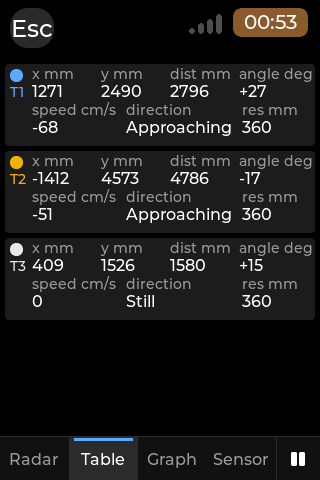
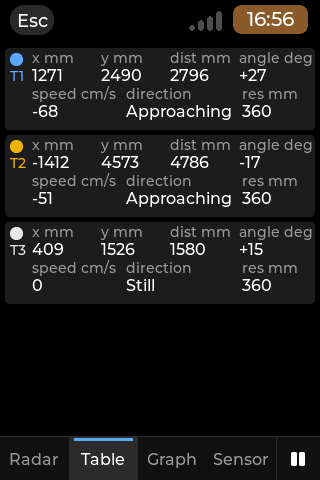
mmwave-radar 0.1.1: the 320x480 header follows the narrow portrait shell
The published 0.1.0 was built at a toolkit before the launcher's narrow
portrait shell (v0.9.4), so on 320x480 (PDA mode on 480x320 panels) the
app's own copy of the rule left the toolkit's 56 px bar, its 9 mm key
height and its radius: a round Esc. The pin is past that shell now, which
makes the Esc 44x30 in a 40 px bar with its tap area over the whole bar
(as Deck Atlas has it). 480x320 and the larger sizes are unchanged.

- radar_app.cpp: the by-hand narrow rule (Esc x/w, hidden title lambda,
  ext click area, 16/14 px text and spacing) is deleted; the Page and the
  toolkit tokens do it. A toolkit without CP0_UI_NARROW_PORTRAIT_SIZE is a
  compile error instead of a round Esc.
- headless: `expect esc` checks the header Esc against the rule at the
  scene's size (narrow portrait: TARGET wide, bar minus margins high, not a
  circle, SPACE_M from the left, 40 px bar, tap area over the bar, no title;
  otherwise the 9 mm key); used in a-radar-one (all sizes) and
  o-board-density (the real 6.1 px/mm panel at 480x320 and 320x480).
- version 0.1.1 (app.json, kVersion, package test), README, screenshots
  03, 06 and 08 (they showed the old header).

Claude-Session: https://claude.ai/code/session_01DZirtLRRFpxSjax5Qp5ZSW

Changed region(s): [[0.0, 0.0, 1.0, 0.6875]]

diff --git a/apps/_common/headless/headless_main.cpp b/apps/_common/headless/headless_main.cpp
@@ -13,6 +13,7 @@
 
 #include "app.hpp"
 #include "cp0_ui_metrics_lvgl.h"
+#include "cp0_ui_roller.h"
 #include "cp0_ui_widgets.hpp"
 #include "keyboard_input.h"
 
@@ -457,6 +458,48 @@ void play(Run &run, const Scene &scene)
                 fail(run, line, "no visible text \"" + arg(2) + "\"");
             } else if (what == "notext" && headless::find_label(arg(2), false)) {
                 fail(run, line, "text \"" + arg(2) + "\" is visible");
+            } else if (what == "esc") {
+                /* expect esc: the page header's Esc button follows the layout service's rule at this size: on a narrow
+                 * portrait canvas (320x480) TARGET wide, the bar minus its margins high (not a circle), SPACE_M from the
+                 * left edge, its tap area over the whole bar height, no page title; elsewhere the 9 mm toolbar key
+                 * (as high as the bar's margins allow). The size goes in the report. */
+                const cp0_ui_metrics_t *m = cp0_ui_metrics_get();
+                cp0_ui_roller_page_t want{};
+                lv_obj_t *label = headless::find_label("Esc", false);
+                if (cp0_ui_roller_page(m, 0, &want) != 0) {
+                    fail(run, line, "expect esc: no page layout at this size");
+                } else if (!label) {
+                    fail(run, line, "no visible text \"Esc\"");
+                } else {
+                    lv_obj_t *button = headless::clickable_of(label);
+                    lv_area_t a;
+                    lv_obj_get_coords(button, &a);
+                    const int bw = lv_obj_get_width(button), bh = lv_obj_get_height(button);
+                    const int bx = a.x1, by = a.y1;
+                    const bool narrow = cp0_ui_narrow_portrait(m) != 0;
+                    const int pad = lv_obj_get_style_radius(button, LV_PART_MAIN);
+                    run.report << "esc " << bw << "x" << bh << "@(" << bx << "," << by << ") radius " << pad
+                               << (narrow ? " narrow portrait" : "") << ", bar " << want.header_h << "\n";
+                    std::string why;
+                    if (narrow) {
+                        if (bw != m->tok[CP0_TOK_TARGET]) why = "width is not TARGET";
+                        else if (bh != want.header_h - 2 * m->shell.status_top) why = "height is not the bar minus its margins";
+                        else if (bh >= bw) why = "not wider than high (a circle)";
+                        else if (bx != m->tok[CP0_TOK_SPACE_M]) why = "not SPACE_M from the left edge";
+                        else if (want.header_h != 40) why = "bar is not 40 px";
+                        else if (want.title_hidden != 1) why = "the page title is not hidden";
+                        else {
+                            const lv_point_t top = {bx + bw / 2, 0}, bottom = {bx + bw / 2, want.header_h - 1};
+                            if (!lv_obj_hit_test(button, &top) || !lv_obj_hit_test(button, &bottom))
+                                why = "tap area does not cover the bar height";
+                        }
+                    } else {
+                        const int key = cp0_ui_toolbar_key_px(m->ppmm_x100);
+                        if (bw != key) why = "width is not the 9 mm toolbar key";
+                        else if (bh != std::min(key, want.header_h - 2 * m->shell.status_top)) why = "height is not the toolbar key capped by the bar's margins";
+                    }
+                    if (!why.empty()) fail(run, line, "Esc " + std::to_string(bw) + "x" + std::to_string(bh) + ": " + why);
+                }
             } else if (what == "key") {
                 /* expect key "TEXT" toolbar|target: the button labelled TEXT is exactly that high and at least that
                  * wide (toolbar = cp0_ui_toolbar_key_px, the 9 mm toolbar key; target = TARGET) */

diff --git a/apps/mmwave-radar/src/ui/radar_app.cpp b/apps/mmwave-radar/src/ui/radar_app.cpp
@@ -27,6 +27,12 @@
 #include <cstring>
 #include <sys/stat.h>
 
+/* The narrow portrait shell (320x480: 40 px bar, Esc 44x30 at the left edge, no title) is the toolkit's: a toolkit
+ * before the launcher's v0.9.4 would draw a round Esc and a 56 px bar, so it is not built against. */
+#ifndef CP0_UI_NARROW_PORTRAIT_SIZE
+#error "mmwave-radar needs the launcher toolkit at the pin of apps/_common/LAUNCHER_REF (v0.9.4 or later)"
+#endif
+
 namespace mmwui {
 
 namespace {
@@ -104,36 +110,9 @@ RadarApp::RadarApp(lv_obj_t *screen) : screen_(screen)
     /* the launcher's page header, as in every app */
     const cp0_ui_metrics_t *m = cp0_ui_metrics_get();
     cp0_ui_roller_page(m, cp0::ui::status_strip_left(), &page_layout_);
-    const bool narrow = sz_.narrow;
-#ifndef CP0_UI_NARROW_PORTRAIT_SIZE
-    /* a toolkit before the narrow portrait shell (launcher v0.9.4): its rule done here (Esc TARGET wide at the left
-     * edge, no title); the bar keeps the toolkit's height, the status strip is drawn for it */
-    if (narrow) {
-        page_layout_.esc_x = sz_.space_m;
-        page_layout_.esc_w = sz_.target;
-        page_layout_.title_max_w = 0;
-    }
-#endif
-    page_ = std::make_unique<cp0::ui::Page>(
-        screen_, page_layout_,
-        [narrow](lv_obj_t *parent, const char *t) -> lv_obj_t * {
-            lv_obj_t *l = cp0::ui::add_title(parent, t);
-            if (narrow && l) lv_obj_add_flag(l, LV_OBJ_FLAG_HIDDEN);
-            return l;
-        },
-        [] { cdk::request_quit(0); });
+    page_ = std::make_unique<cp0::ui::Page>(screen_, page_layout_, cp0::ui::add_title, [] { cdk::request_quit(0); });
     cp0::ui::StatusStrip::add(page_->header());
     page_->set_title({"mmWave Radar"});
-#ifndef CP0_UI_NARROW_PORTRAIT_SIZE
-    if (narrow) { /* the Esc's tap area over the whole bar height */
-        const uint32_t n = lv_obj_get_child_count(page_->header());
-        for (uint32_t i = 0; i < n; ++i) {
-            lv_obj_t *c = lv_obj_get_child(page_->header(), static_cast<int32_t>(i));
-            if (lv_obj_check_type(c, &lv_button_class))
-                lv_obj_set_ext_click_area(c, std::max(0, (page_layout_.header_h - page_layout_.esc_h) / 2));
-        }
-    }
-#endif
 
     w_ = page_layout_.w;
     h_ = page_layout_.h;
@@ -182,7 +161,7 @@ RadarApp::RadarApp(lv_obj_t *screen) : screen_(screen)
     now_ = mono_ms();
     link_->start(now_, remembered);
     log_line("%s %dx%d%s%s, listen only, remembered %s%s%s%s", kVersion, w_, h_,
-                 narrow ? " narrow portrait" : "", demo && *demo ? (std::string(" demo ") + demo).c_str() : "",
+                 sz_.narrow ? " narrow portrait" : "", demo && *demo ? (std::string(" demo ") + demo).c_str() : "",
                  remembered.empty() ? "none" : remembered.port_id.c_str(),
                  settings_.connection == mmw::Connection::Usb ? "" : ", connection ",
                  settings_.connection == mmw::Connection::Usb ? "" : mmw::connection_name(settings_.connection),
@@ -290,14 +269,6 @@ void RadarApp::compute_sizes()
     sz_.target = m->tok[CP0_TOK_TARGET];
     sz_.body_px = m->text_px[CP0_TEXT_BODY];
     sz_.caption_px = m->text_px[CP0_TEXT_CAPTION];
-#ifndef CP0_UI_NARROW_PORTRAIT_SIZE
-    if (sz_.narrow) { /* the launcher's narrow portrait numbers (v0.9.4), not in the pinned toolkit */
-        sz_.body_px = 16;
-        sz_.caption_px = 14;
-        sz_.space_s = 5;
-        sz_.space_m = 10;
-    }
-#endif
     sz_.tab_h = std::max(sz_.row, sz_.target);
     sz_.dot = std::clamp(std::min(w, h) / 26, 10, 24);
 }

diff --git a/apps/mmwave-radar/tests/test_package.cpp b/apps/mmwave-radar/tests/test_package.cpp
@@ -41,7 +41,7 @@ void test_package()
     const std::string hpp = test_read_file(app + "/src/ui/radar_app.hpp");
     CHECK(has(hpp, "kMinW = 480, kMinH = 320"));
     CHECK(has(hpp, "kPortraitW = 320, kPortraitH = 480"));
-    CHECK(has(hpp, "kVersion = \"0.1.0\""));
+    CHECK(has(hpp, "kVersion = \"0.1.1\""));
     CHECK(!test_read_file(app + "/root/usr/share/APPLaunch/share/images/mmwave-radar.png").empty());
     CHECK(test_read_file(app + "/root/usr/share/APPLaunch/share/images/mmwave-radar.png") ==
           test_read_file(app + "/icon.png"));
@@ -50,7 +50,7 @@ void test_package()
     const std::string manifest = test_read_file(app + "/app.json");
     CHECK(has(manifest, "\"share_code\": \"mmwave-radar\""));
     CHECK(has(manifest, "\"package\": \"mmwave-radar\""));
-    CHECK(has(manifest, "\"version\": \"0.1.0\""));
+    CHECK(has(manifest, "\"version\": \"0.1.1\""));
     CHECK(has(manifest, "\"title\": \"mmWave Radar\""));
     CHECK(has(manifest, "\"license\": \"MIT\""));
     CHECK(has(manifest, "\"arch\": [\"arm64\", \"amd64\"]"));

diff --git a/apps/mmwave-radar/src/ui/radar_app.hpp b/apps/mmwave-radar/src/ui/radar_app.hpp
@@ -39,12 +39,12 @@ namespace mmwui {
 
 constexpr int kMinW = 480, kMinH = 320;
 constexpr int kPortraitW = 320, kPortraitH = 480;
-constexpr const char *kVersion = "0.1.0";
+constexpr const char *kVersion = "0.1.1";
 
 enum class Tab { Radar = 0, Table, Graph, Sensor };
 
-/* The sizes of this canvas: the toolkit's tokens, or on a narrow portrait canvas (320x480) the launcher's narrow
- * portrait numbers when the pinned toolkit does not have them yet (body 16 px, caption 14 px). */
+/* The sizes of this canvas: the toolkit's tokens (on a narrow portrait canvas, 320x480, the toolkit's own narrow
+ * portrait numbers: Compact tokens, 16 px body text, 14 px caption). */
 struct Sizes {
     bool narrow = false;     /* narrow portrait: w < 480 and h > w */
     bool portrait = false;

diff --git a/apps/mmwave-radar/README.md b/apps/mmwave-radar/README.md
@@ -2,7 +2,7 @@
 
 A viewer for the Hi-Link HLK-LD2450 / HLK-LD2452 24 GHz tracking radar and the HLK-LD2451 24 GHz target radar on a
 USB-serial adapter, or for the HLK-LD2451 over Bluetooth LE (its built-in module): up to three targets seen from above, with trails and speed arrows, the raw numbers, a 30-second
-graph of distance and speed, and the sensor's state. Native fullscreen app on the launcher's `cp0_lvgl`, MIT, version 0.1.0, category Tools. **Listen only:** the app sends
+graph of distance and speed, and the sensor's state. Native fullscreen app on the launcher's `cp0_lvgl`, MIT, version 0.1.1, category Tools. **Listen only:** the app sends
 nothing to the sensor, not even to find it (study: launcher report 056); over Bluetooth the only thing sent is the
 standard notification subscription (see [Bluetooth](#bluetooth-hlk-ld2451)).
 
@@ -322,14 +322,10 @@ on every systemd system and is only opened at run time). arm64 and amd64.
 
 ## Install
 
-Settings > Apps (category Tools). By hand: `sudo dpkg -i mmwave-radar_0.1.0_arm64.deb`.
+Settings > Apps (category Tools). By hand: `sudo dpkg -i mmwave-radar_0.1.1_arm64.deb`.
 
 ## Known limits
 
-- **Narrow portrait header.** The toolkit pin (`3f6579f`) predates the launcher's narrow portrait shell (v0.9.4,
-  `7b6ee88a`): at 320x480 the app moves the Esc to the left edge, hides the title and uses the 16/14 px text itself, but
-  the bar keeps the pinned toolkit's 56 px (the launcher draws 40 px, Esc 44x30). A pin move gives the 40 px bar with no
-  app change (the app uses the toolkit's own rule when `CP0_UI_NARROW_PORTRAIT_SIZE` exists).
 - The title is cut to "mmWave ..." at 480x320 and "mmWave R..." at 640x480 by the toolkit's title width rule (as other
   apps' long titles).
 - Listen only: no sensor setting can be read or changed (the LD2452 does not answer the LD2450 queries anyway; the
@@ -374,6 +370,10 @@ Build from a WSL native-filesystem LF copy with fresh build dirs (`CDK_BUILD`, `
 
 ## Changes
 
+- 0.1.1: the 320x480 header follows the launcher's narrow portrait shell: a 40 px bar and the Esc 44x30 at the left
+  edge with its tap area over the whole bar. 0.1.0 was built at a toolkit before that shell and drew a round Esc
+  and a 56 px bar there (480x320 and the larger sizes are unchanged); the app's own copy of the rule is gone and the
+  build stops on such a toolkit.
 - 0.1.0: first version: Radar, Table, Graph and Sensor pages, listen-only detection, units, orientation,
   range and trails settings, 480x320 and 320x480 minimum layouts; the tall Radar page (plot, target list, distance
   strip), ring labels on the wedge's edge, the diagnostic log's marker file and its frame counters (empty, non-empty,

diff --git a/apps/_common/headless/README.md b/apps/_common/headless/README.md
@@ -49,6 +49,7 @@ After the app asks to quit, only `expect` lines are read.
 | `shot NAME` / `check NAME` | settle 250 ms, save the PNG (shot only), run the layout checks |
 | `expect quit\|noquit`, `expect osk on\|off`, `expect text "T"`, `expect notext "T"` | assertions |
 | `expect key "T" toolbar\|target` | the button labelled T is exactly the 9 mm toolbar key (`cp0_ui_toolbar_key_px`) / TARGET high and at least as wide; its size goes in the report |
+| `expect esc` | the header's Esc button follows the layout service's rule at this size: narrow portrait (320x480) TARGET wide, the bar (40 px) minus its margins high, SPACE_M from the left edge, tap area over the whole bar, no title; elsewhere the 9 mm toolbar key; its size goes in the report |
 | `say TEXT` | a line in the log |
 | `lifecycle` | (scene option, like `nocontract`) the harness plays a multitasking launcher: a control socket in `APPLAUNCH_LIFECYCLE` / `APPLAUNCH_CONTROL_FD` and the toolkit's helper (`cp0_app_lifecycle_lvgl.h`) on the harness's display and pointer |
 | `hide`, `show`, `close` | the launcher's message; `hide` / `show` must be answered within 300 ms (the time goes in the report), `close` must make the app quit within 300 ms |
